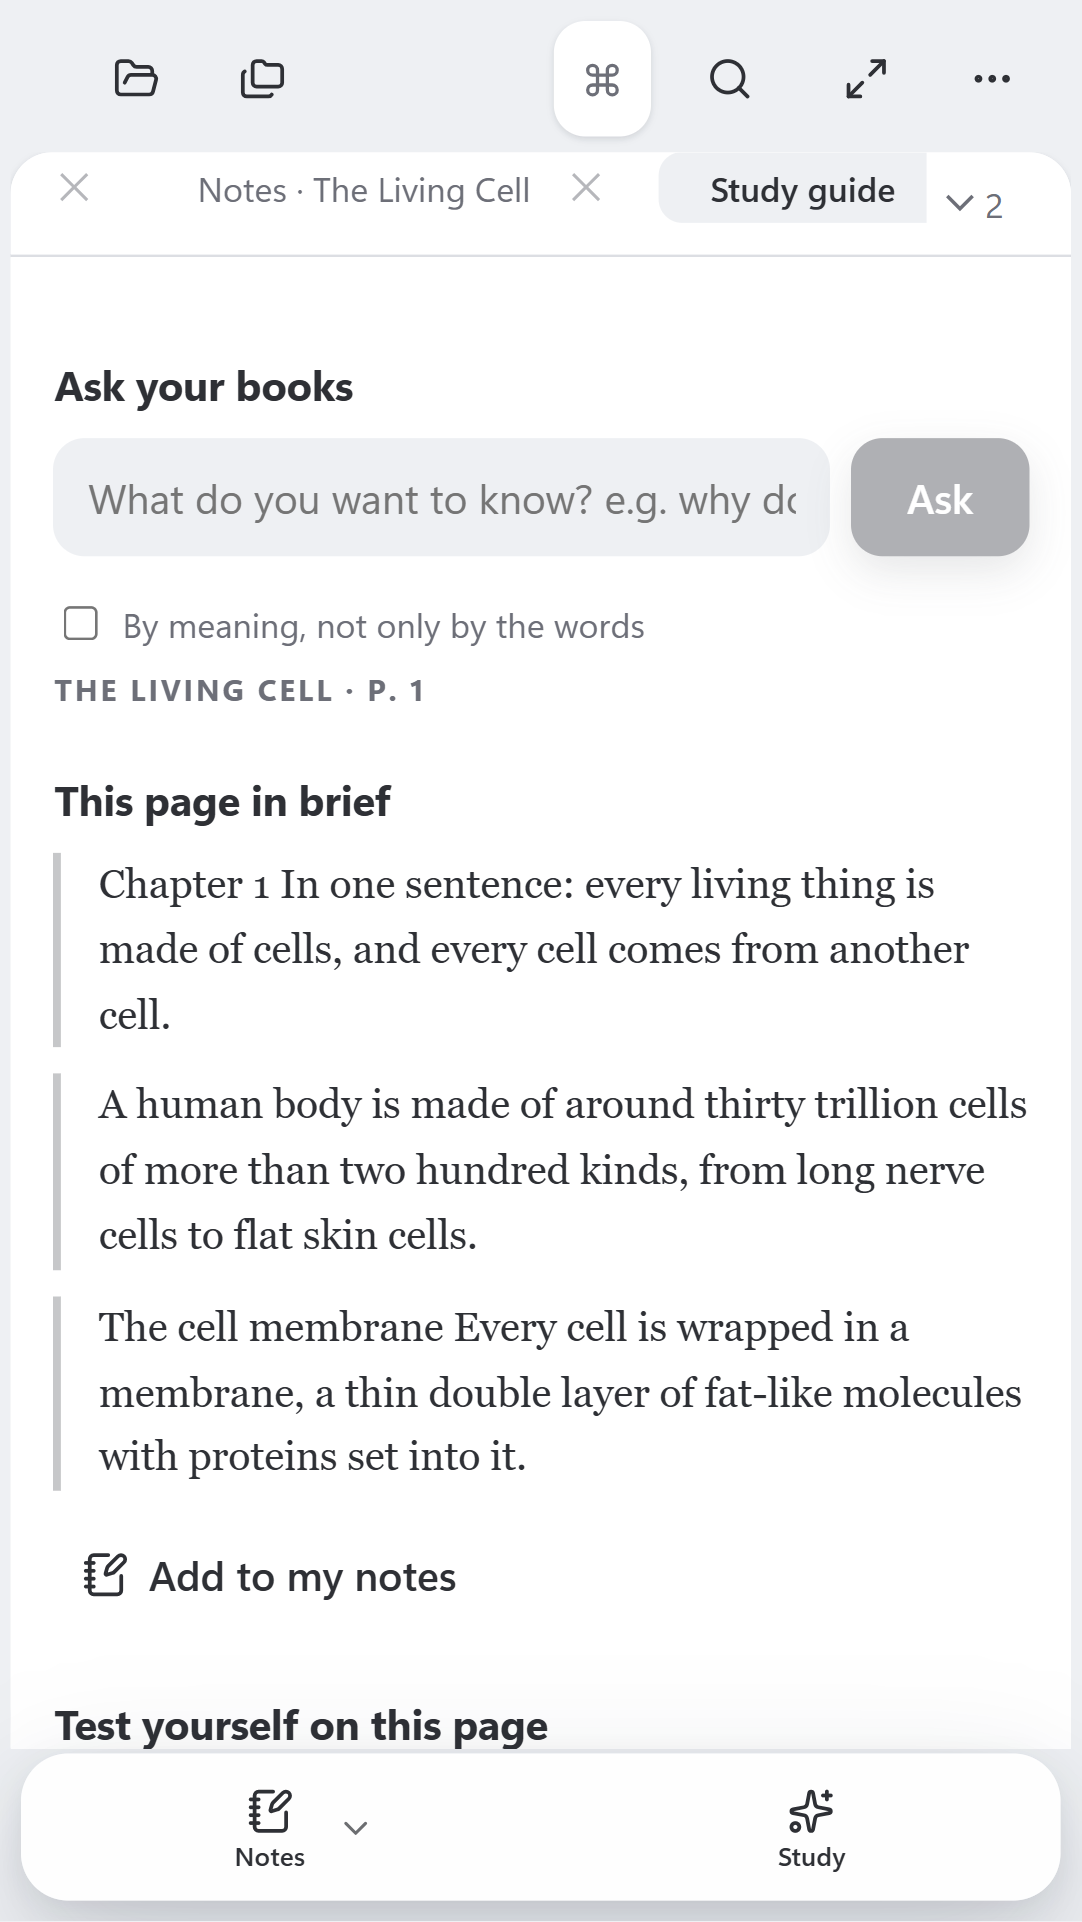
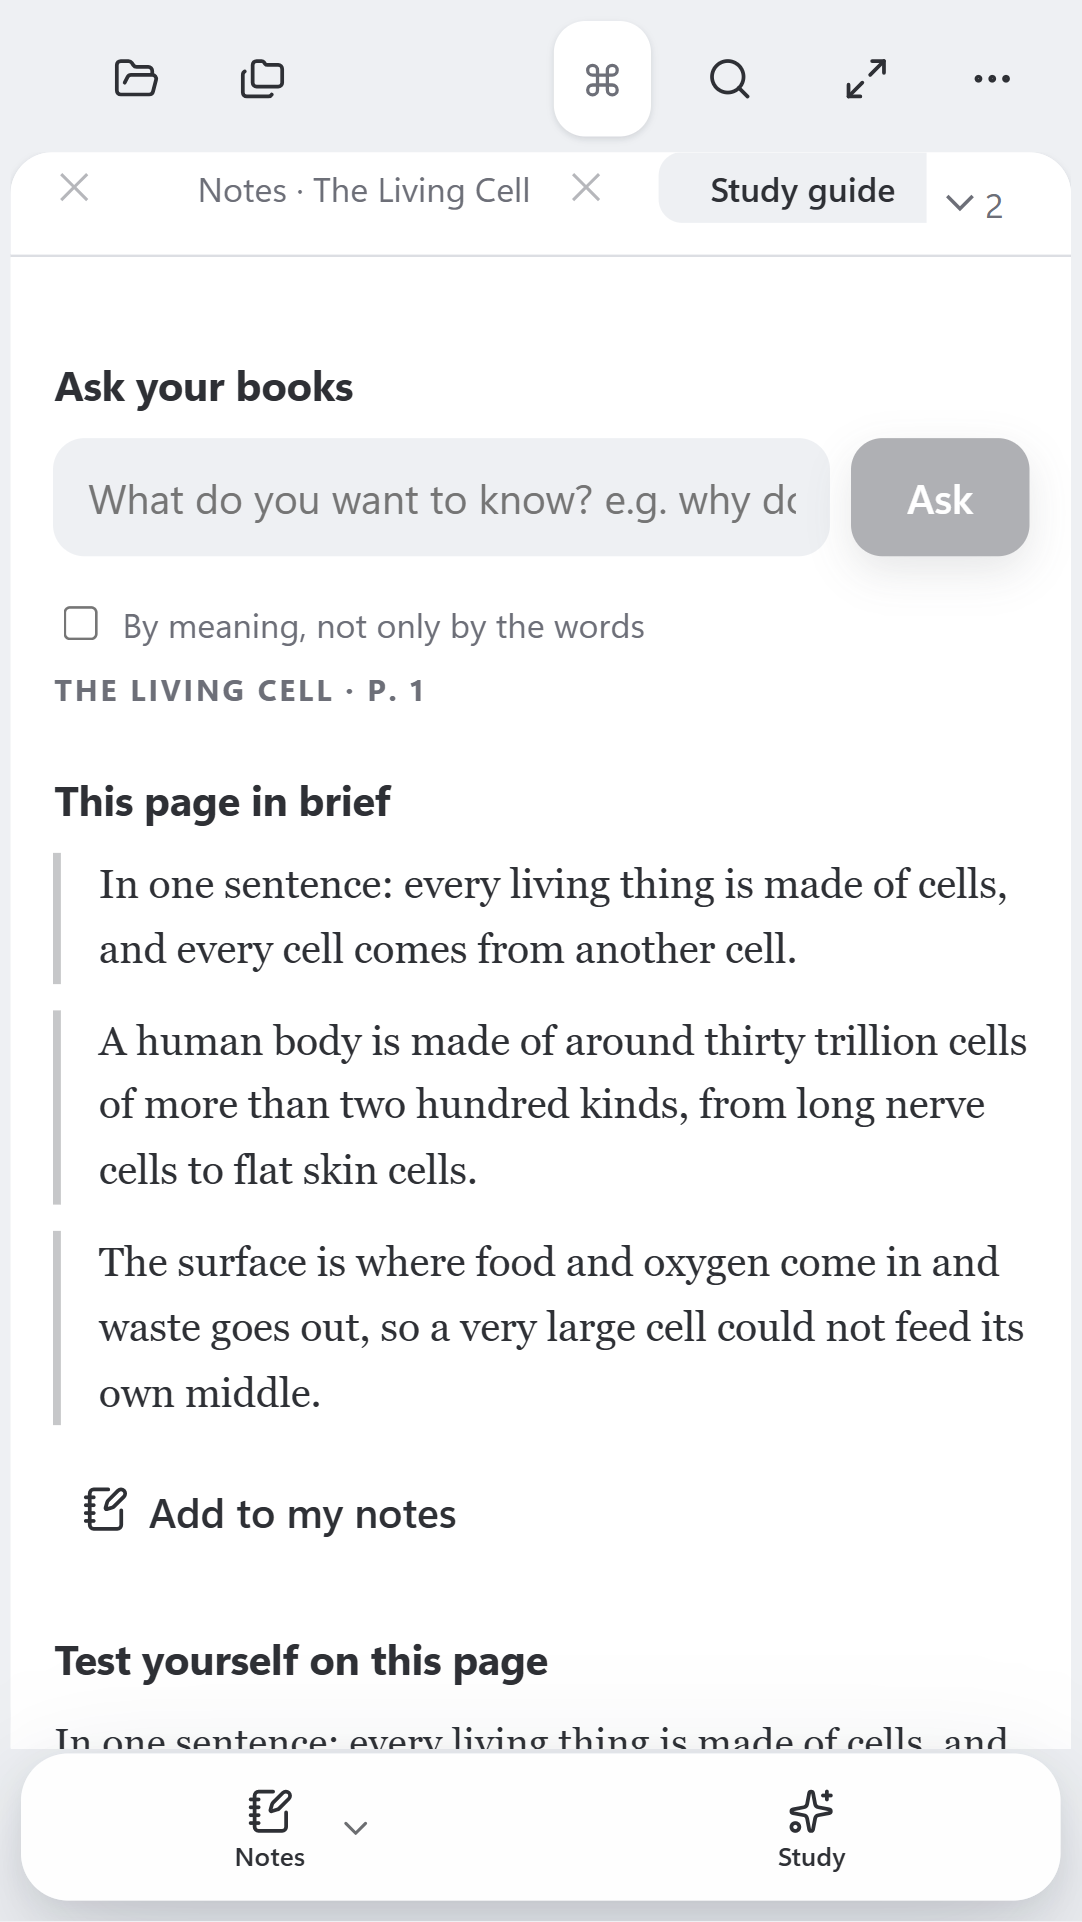
Microsoft Store: MSIX package with Sidepage's Partner Center identity, built to leave updates to the Store, with a submission guide and desktop screenshots; study guide skips titles and headings run into a sentence, and quiz blanks only whole words; Sidepage 0.35.3

diff --git a/src/lib/insight.ts b/src/lib/insight.ts
@@ -11,6 +11,9 @@ const STOP = new Set(('a about above after again against all also am an and any 
   'such than that the their theirs them themselves then there these they this those through thus to too two under until up upon us very was we were what when where ' +
   'which while who whom why will with within without would you your yours yourself yourselves been being get got like many much new see use used using well ' +
   'page chapter figure table fig also et al ie eg vs per ' +
+  // Everyday words that are common in any text and say nothing about its subject.
+  'every called part parts kind kinds way ways thing things make makes made take takes come comes give gives need needs keep keeps ' +
+  'often around across among large small long short little great good best high low first last next number numbers lot lots ' +
   // The small change of reference lists, which would otherwise pass for a book's favourite words.
   'vol doi art pp no ed eds rev nat adv mater eng med sci proc ieee int conf trans http https www org com pdf isbn issn press univ journal accessed retrieved available online jan feb mar apr jun jul aug sep sept oct nov dec').split(' '))
 
@@ -22,13 +25,33 @@ export const wordsOf = (text: string) => plainWords(text).map(stem)
 // An entry in a list of references reads like a sentence but says nothing about the subject.
 const isReference = (sentence: string) =>
   /[“"][^”"]{6,}[”"]\s*,|,[”"]\s|\bet al\b|\b(Annu|Proc|Trans|Lett|Rev|Sci|Nat|Adv|Biomed|Eng)\.(\s|$)|\b(doi|arXiv|ISBN)\b|\[\d+\]\s*[A-Z]\.\s?[A-Z]/.test(sentence)
+// The text of a PDF runs a heading straight into the sentence after it ("Chapter 1 In one sentence: …",
+// "The cell membrane Every cell is wrapped …"): such a heading is taken off the front of the sentence.
+const HEADING_LEAD = /^(?:(?:chapter|section|part|unit|lecture|slide)\s+\d+\w*[.:]?\s+|\d+(?:\.\d+)*[.)]?\s+)/i
+const SENTENCE_OPENERS = /^(?:A|An|The|This|These|That|Those|In|On|At|By|For|To|From|With|Every|Each|Some|Most|All|It|Its|We|You|They|There|Here|When|While|If|As|Our|Your|One)$/
+const FUNCTION_END = /\b(?:the|a|an|of|in|on|at|to|for|by|with|from|and|or|as|is|are|was|were|that|which|its|their)$/i
+function withoutHeading(sentence: string): string {
+  let rest = sentence.replace(HEADING_LEAD, '')
+  // A few words with no punctuation, then a capital starting an ordinary sentence: the few words were a heading.
+  const run = rest.match(/^([^.,;:!?]{3,60}?[a-z0-9])\s([A-Z][a-z]*(?:\s[a-z][\w'-]*){3,})/)
+  // A capital inside those few words is a name ("In 1665 Robert Hooke…"), and a word like "of" at their end leads
+  // on into the sentence: either way they are left alone. Unless what follows is an ordinary opening word of a
+  // sentence ("The Living Cell A short guide…", "What a cell is A cell is…"): that marks a heading.
+  const opens = !!run && SENTENCE_OPENERS.test(run[2].split(' ')[0])
+  if (run && run[1].split(' ').length <= 6 && (opens || (!FUNCTION_END.test(run[1]) && !/\s[A-Z]/.test(run[1])))) rest = rest.slice(run[1].length + 1)
+  return rest
+}
+
 export const sentencesOf = (text: string) => {
   const clean = text.replace(/\s+/g, ' ').trim()
   const parts = 'Segmenter' in Intl
     ? [...new Intl.Segmenter(undefined, { granularity: 'sentence' }).segment(clean)].map(part => part.segment.trim())
     : clean.match(/[^.!?]+[.!?]+/g) ?? [clean]
-  return parts.filter(sentence => sentence.length > 30 && sentence.split(' ').length >= 6 && !isReference(sentence))
+  return parts.map(withoutHeading).filter(sentence => sentence.length > 30 && sentence.split(' ').length >= 6 && !isReference(sentence))
 }
+// A sentence a question can be made from: a whole one, ending as sentences do, with ordinary words in it (not a
+// title in capitals).
+const isProperSentence = (sentence: string) => /[.!?]["')\]]?$/.test(sentence) && (sentence.match(/\b[a-z][a-z'-]+\b/g) ?? []).length >= 5
 
 const cache = new Map<string, Stretch[]>()
 
@@ -212,11 +235,15 @@ export async function quizOf(book: string, place: string, terms: Term[], most = 
   const questions: Question[] = []
   for (const sentence of sentences) {
     if (questions.length >= most) break
+    if (!isProperSentence(sentence)) continue
     const lower = sentence.toLowerCase()
     // The weightiest term the sentence holds, as a whole word.
-    const answer = names.find(name => new RegExp(`(^|[^\\p{L}])${name.replace(/[.*+?^${}()|[\]\\]/g, '\\$&')}([^\\p{L}]|$)`, 'u').test(lower))
+    const whole = (name: string) => new RegExp(`(^|[^\\p{L}])${name.replace(/[.*+?^${}()|[\]\\]/g, '\\$&')}(?=[^\\p{L}]|$)`, 'u').exec(lower)
+    const answer = names.find(name => whole(name))
     if (!answer || questions.some(question => question.answer === answer)) continue
-    const at = lower.indexOf(answer)
+    // Where it stands as a whole word: "cell" is taken out of "a cell", never out of "cells".
+    const found = whole(answer)!
+    const at = found.index + found[1].length
     const others = [...new Set(names.map(name => name.toLowerCase()))].filter(name => name !== answer && !answer.includes(name) && !name.includes(answer)).sort(() => Math.random() - 0.5).slice(0, 3)
     if (others.length < 2) continue
     questions.push({ before: sentence.slice(0, at), after: sentence.slice(at + answer.length), answer: sentence.slice(at, at + answer.length), choices: [...others, sentence.slice(at, at + answer.length)].sort(() => Math.random() - 0.5) })

diff --git a/src/lib/update.ts b/src/lib/update.ts
@@ -15,8 +15,9 @@ const newer = (a: string, b: string) => {
   return false
 }
 
-// Google Play updates the copies it installed, and its rules forbid an app updating itself: a Play build never looks.
-export const updatesHere = isTauri && !(isMobile && __STORE__ === 'play')
+// Google Play and the Microsoft Store update the copies they installed, and their rules forbid an app updating
+// itself: a build made for a store never looks.
+export const updatesHere = isTauri && !__STORE__
 
 export async function findUpdate(): Promise<Update | null> {
   if (!updatesHere) return null
@@ -52,4 +53,4 @@ export async function restart() {
 }
 
 export const updatesByThemselves = () => getPref('auto-update', true)
-export const canUpdateInPlace = isTauri && !isMobile
+export const canUpdateInPlace = isTauri && !isMobile && !__STORE__

diff --git a/store/microsoft/README.md b/store/microsoft/README.md
@@ -1,0 +1,99 @@
+# Publishing Sidepage on the Microsoft Store
+
+Everything Partner Center asks for, in the order it asks, with Sidepage's answers. Sidepage is already reserved there: **Store ID 9NQ4B0151LNS**.
+
+## 1. The package
+
+Every release on GitHub carries `Sidepage_X.Y.Z_x64.msix`. It is built with the identity Partner Center gave Sidepage (**Product management, Product identity**):
+
+| Field | Value |
+| --- | --- |
+| Package/Identity/Name | `CalebKwabenaKyereBoateng.Sidepage` |
+| Package/Identity/Publisher | `CN=6EE69D7C-8974-4D42-8DAD-1C77D5292526` |
+| Package/Properties/PublisherDisplayName | Caleb Kwabena Kyere Boateng |
+
+The package is left unsigned: the Store signs it after certification. Store copies never look for updates themselves, because the Store updates them. To build one by hand on Windows (needs the Windows SDK for `makeappx`):
+
+```bash
+SIDEPAGE_STORE=msstore npx tauri build --no-bundle
+node scripts/msix.mjs src-tauri/target/release/sidepage.exe Sidepage_x64.msix
+```
+
+The version in the package is the app's version with `.0` added (0.35.3 becomes 0.35.3.0). Each submission needs a higher version than the last one.
+
+## 2. Start a submission
+
+In Partner Center, open **Apps and games**, then **Sidepage**, then **Start your submission**.
+
+## 3. Pricing and availability
+
+| Field | Answer |
+| --- | --- |
+| Markets | All markets |
+| Visibility | Public audience, discoverable in the Store |
+| Pricing | Free |
+| Free trial | No free trial |
+
+## 4. Properties
+
+| Field | Answer |
+| --- | --- |
+| Category | Education (subcategory Study tools if offered; otherwise Books and reference as the secondary category) |
+| Privacy policy URL | https://clleb.github.io/sidepage/docs/privacy-policy |
+| Website | https://clleb.github.io/sidepage/docs/ |
+| Support contact info | https://github.com/cLLeB/sidepage/issues |
+| Product declarations | Tick **This app has been tested to meet accessibility guidelines** only if you have checked it; leave the others unticked |
+| System requirements | Keyboard and mouse recommended; touch supported. Memory 4 GB recommended |
+
+## 5. Age ratings
+
+Fill in the IARC questionnaire:
+
+- Category: **Reference, News, or Educational**.
+- Violence, sexuality, language, controlled substances, gambling: **No**.
+- Users can interact or exchange content with each other: **No**.
+- Shares the user's location: **No**.
+- Allows purchases of digital goods: **No**.
+- Unrestricted internet access (a web page can be opened by its address): **Yes**.
+
+The expected rating is Everyone (PEGI 3).
+
+## 6. Packages
+
+Drag `Sidepage_X.Y.Z_x64.msix` from the GitHub release into the upload area. Under **Device family availability**, keep **Windows 10/11 Desktop** ticked and the others unticked.
+
+## 7. Store listings
+
+Add **English (United States)** and, for a French listing, **French (France)**.
+
+| Field | What to use |
+| --- | --- |
+| Description | The full description in `../play/listing-en.md` (French: `../play/listing-fr.md`) |
+| Short description | The short description from the same files |
+| What's new in this version | The release notes of the version on GitHub |
+| Product features (up to 20) | The lines starting with • in the description, one per field |
+| Screenshots (at least one, 1366 by 768 or larger) | `screenshots/desktop-reading.png`, `desktop-guide.png`, `desktop-review.png` |
+| Store logos | Optional: the Store uses the icons in the package. For a 1:1 box art, `../play/icon-512.png` |
+| Search terms (up to 7) | PDF reader, ebook reader, EPUB, study notes, flashcards, note taking, students |
+| Copyright | © 2026 Caleb Kwabena Kyere Boateng |
+| Additional license terms | GPL 3.0: https://github.com/cLLeB/sidepage/blob/main/LICENSE |
+
+The screenshots show a sample document written for them, so no one else's copyright appears.
+
+## 8. Submission options
+
+The package asks for **runFullTrust**, a restricted capability, because Sidepage is a desktop app. Partner Center asks why; answer:
+
+> Sidepage is a desktop reader and note taking app. It runs as a full trust desktop application to open the documents the user chooses and save their notes in their Documents folder.
+
+Notes for certification (optional but helpful):
+
+> No account or login is needed. Open any PDF or EPUB with Open in the top bar. A sample PDF: https://github.com/cLLeB/sidepage/raw/main/store/play/sample/the-living-cell.pdf
+
+## 9. Submit
+
+Click **Submit to the Store**. Certification usually takes one to three working days. Partner Center emails the result; if something fails, the report says which rule and what to change.
+
+## Later versions
+
+Each new release on GitHub carries a new `.msix`. In Partner Center, **Update** the submission, replace the package in **Packages**, update **What's new**, and submit.
